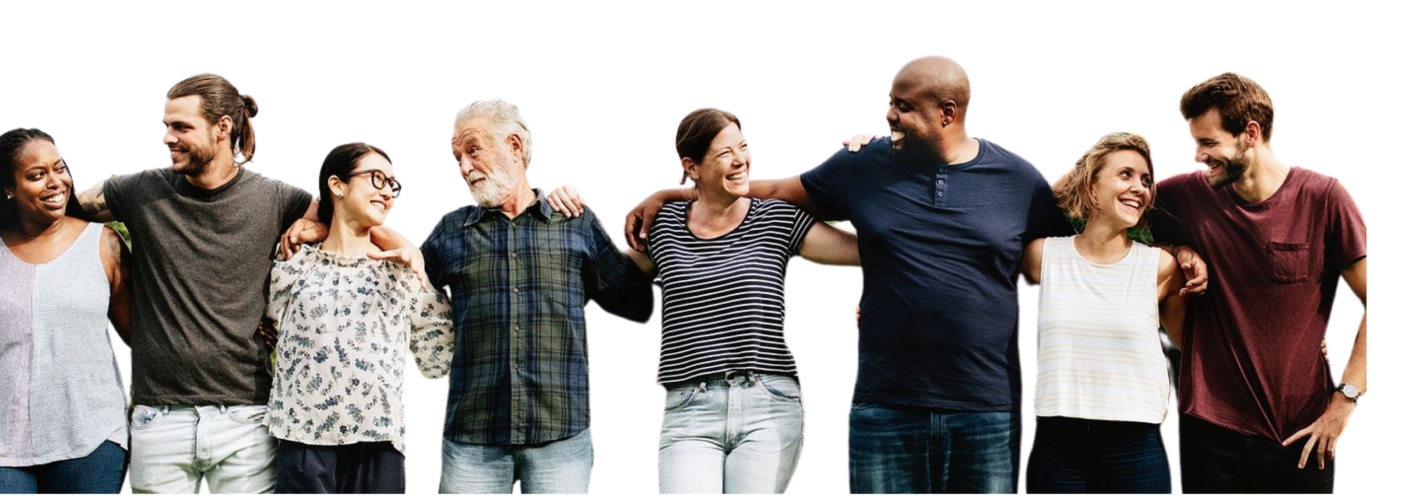
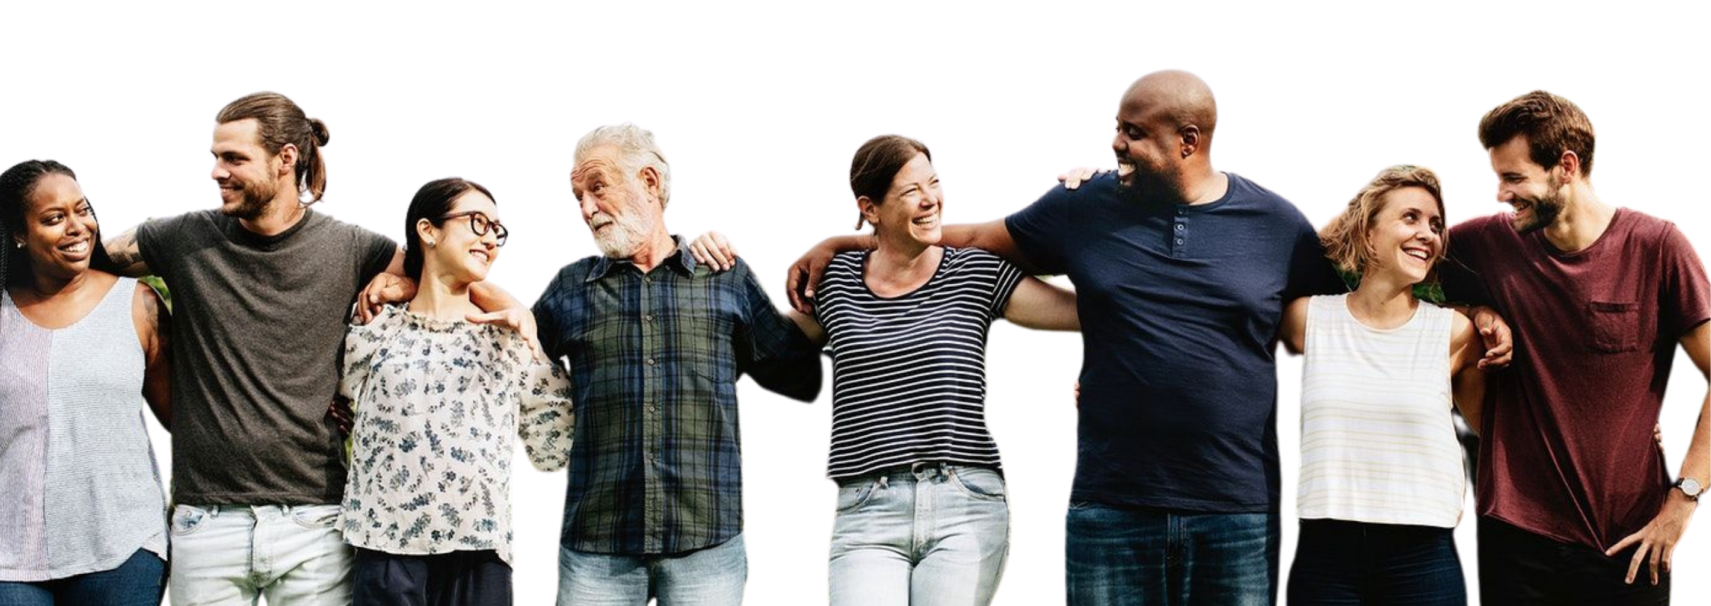
added styles

diff --git a/src/components/Main/Home/Home.jsx b/src/components/Main/Home/Home.jsx
@@ -19,8 +19,8 @@ const Home = () => {
         <img src={familias} alt="familias"/>
         <div>
           <h1>Entre Familias</h1>
-          <p>Ayudamos a familias de acogida en el proceso de adaptación del niño en el hogar. Todos nos hemos sentido solos, es el momento de unirse.</p>
-          <button className="mainBtn" onClick={()=>window.scrollTo(0,0)}><Link to="/maintenance">¡Te estamos esperando!</Link></button>
+          <p>¡Gracias por formar parte de nuestra comunidad, ayudarnos a conectar, y brindar soporte a familias de acogida!</p>
+          <button className="mainBtn" onClick={()=>window.scrollTo(0,0)}><Link to="/maintenance">Mira tu perfil</Link></button>
         </div>
       </article>
       <article id="art2">

diff --git a/src/components/Main/Forum/Forum.jsx b/src/components/Main/Forum/Forum.jsx
@@ -21,8 +21,6 @@ const Forum = () => {
     const config = {
       headers: { Authorization: `Bearer ${token}` },
     };
-
-
   
   try{
       const res = await axios.post(
@@ -90,9 +88,7 @@ const Forum = () => {
       </div>
     </section>
   ) : (
-    <div id="divSpinner">
-      <CircularProgress />
-    </div>
+    <CircularProgress />
   );
 };
 

diff --git a/src/styles/components/_home.scss b/src/styles/components/_home.scss
@@ -37,9 +37,8 @@ article{
 }
 
 #art1>img{
-    height: 430px;
-    width: 1900px;
-    max-width: 100vw;
+    height: 500px;
+    width: 1517px;
 }
 
 #art1>div{
@@ -315,4 +314,5 @@ article{
     }
 
 }
+
 
